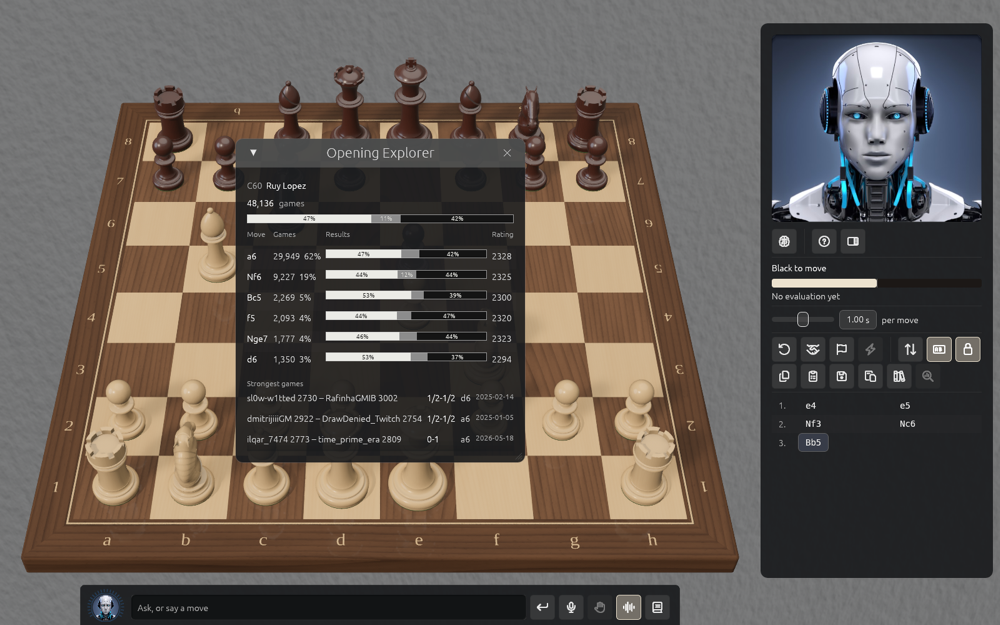
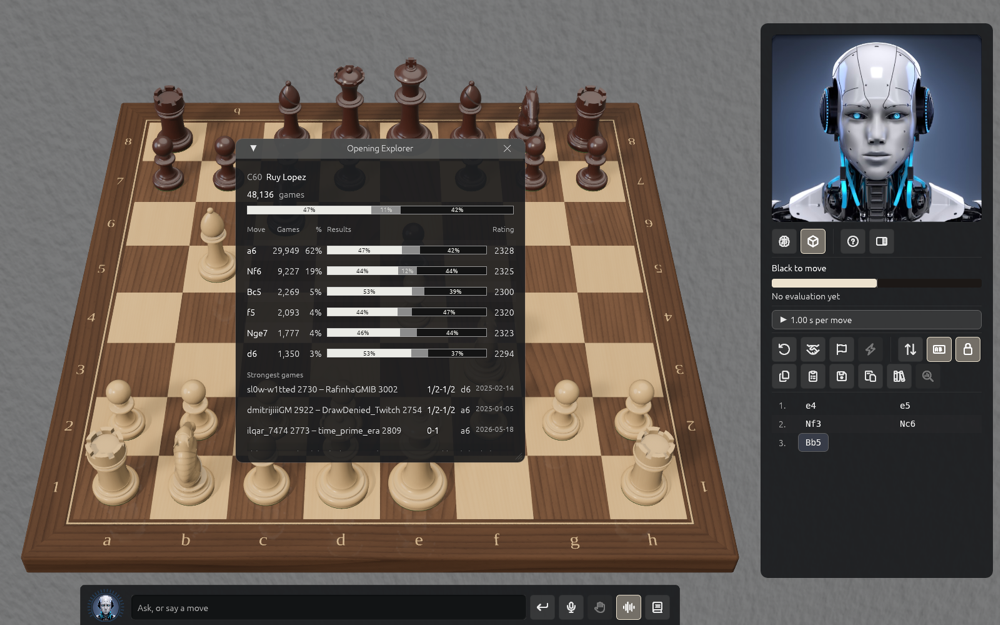
Opening Explorer: click a move to play it, Ctrl to preview it, and the aligned table's picture (chessgui #777)

Changed region(s): [[0.217, 0.2128, 0.527, 0.7296], [0.775, 0.4864, 0.93, 0.5472], [0.775, 0.3648, 0.899, 0.4256]]

diff --git a/book/src/learning.md b/book/src/learning.md
@@ -62,8 +62,11 @@ between players rated 2200 or more, shared openly by Lichess.
   C70 Ruy Lopez: Morphy Defense.
 - **The games and results**: how many games reached the position, and how often White won,
   drew or lost, as a bar.
-- **The moves played**, most played first: how many games played each, how they went, and
-  the mean rating of their players. Hold the pointer over a bar for the exact counts.
+- **The moves played**, most played first: how many games played each and what share of the
+  position's games that is, how they went, and the mean rating of their players. Hold the
+  pointer over a bar for the exact counts. **Click a move to play it** on the board, on your
+  turn or while you analyse a game. Hold **Ctrl** over a move (the Control key on a Mac too)
+  to see a small board with the position after it; Esc puts it away.
 - **The strongest games**: the players and their ratings, the result, the move played here
   and the date.
 
